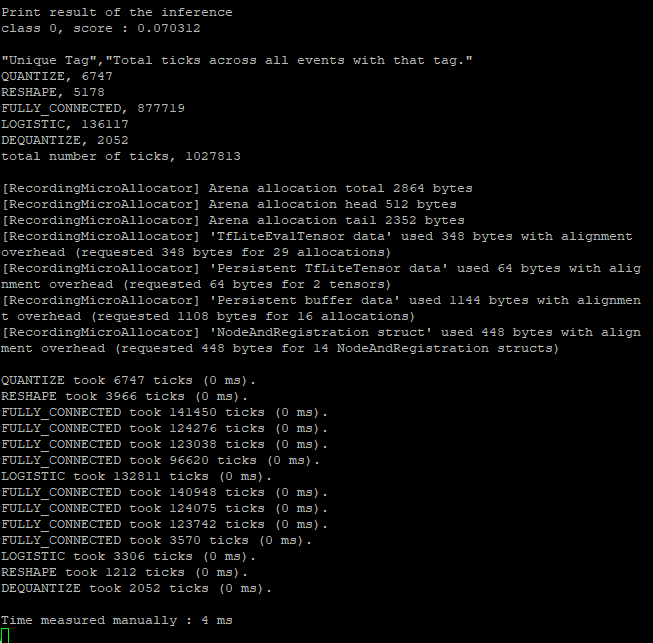
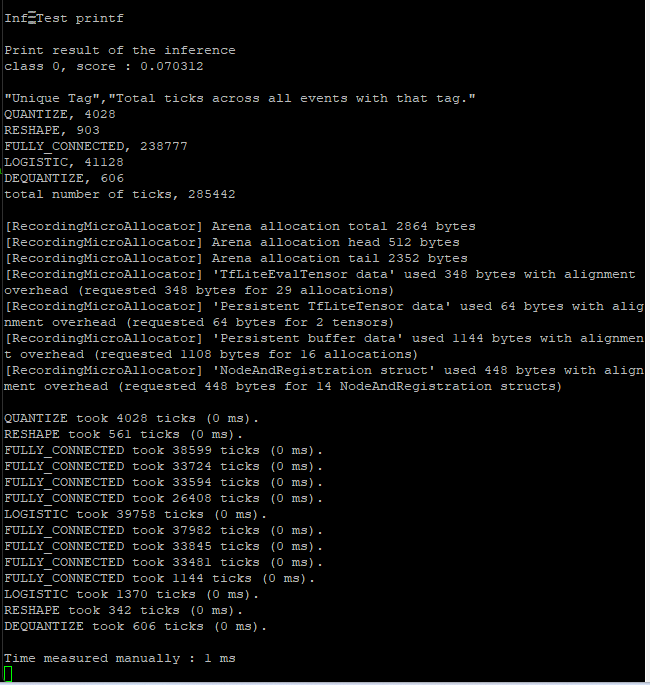
update readme. inferente time

Changed region(s): [[0.0, 0.0, 1.0, 1.0]]

diff --git a/README.md b/README.md
@@ -192,45 +192,48 @@ Follow the procedure below to test the model.
 6. The configuration perspective open it. Go to the Clock configuration tab and set the clock to the max (100MHz)
 
     ![Alt text](docs/images/clock.png)
-7. Save and generate the new C code.
-8. Right click on the project and create a new folder named **tensorflow_lite**.
+
+7. Activate CPU cache (ICache, DCache), if available.
+ 
+8. Save and generate the new C code.
+9.  Right click on the project and create a new folder named **tensorflow_lite**.
 
     ![Alt text](docs/images/folder.png)
-9. Copy the content of the folder `/tmp/tflm-tree`, generated on the section [2 Generate the TFLiteMicro library for the embedded system](##-2-Generate-the-TFLiteMicro-library-for-the-embedded-system).
+10. Copy the content of the folder `/tmp/tflm-tree`, generated on the section [2 Generate the TFLiteMicro library for the embedded system](##-2-Generate-the-TFLiteMicro-library-for-the-embedded-system).
 
     ```bash
     cp -r /tmp/tflm-tree/* P_DeployTSAD/tensorflow_lite
     ```
-10. Include Headers and source in build process. Go to project > Properties. Then, go to C/C++ General> Paths and Symbols > Includes tab > GNU C. Click Add. In the pop-up, click workspace. Select the tensorflow_lite directoy in your project. CHeck Add to all configurations and Add to all languages. Repeat the last two step to iclude directories show in the figure below.
+11. Include Headers and source in build process. Go to project > Properties. Then, go to C/C++ General> Paths and Symbols > Includes tab > GNU C. Click Add. In the pop-up, click workspace. Select the tensorflow_lite directoy in your project. CHeck Add to all configurations and Add to all languages. Repeat the last two step to iclude directories show in the figure below.
 
     ![Alt text](docs/images/include.png)
-11. Include the tensorflow_lite directory in the Source Location
+12. Include the tensorflow_lite directory in the Source Location
 
     ![Alt text](docs/images/source.png)
-12. In Settings > MCU Settings, check the option **Use float with printf from newlib-nano**. It's needed to print float values.
+13. In Settings > MCU Settings, check the option **Use float with printf from newlib-nano**. It's needed to print float values.
 
     ![Alt text](<docs/images/MCU settings.png>)
-13. Add the compiler option `CMSIS_NN`, `ARMCM4`, `CMSIS_DEVICE_ARM_CORTEX_M_XX_HEADER_FILE`, `CPU_M4`, `TF_LITE_DISABLE_X86_NEON`, `TF_LITE_MCU_DEBUG_LOG`, `TF_LITE_STATIC_MEMORY` and `USE_HAL_DRIVER`. Check **Add to all configurations** and **Add to all languages**.
+14. Add the compiler option `CMSIS_NN`, `ARMCM4`, `CMSIS_DEVICE_ARM_CORTEX_M_XX_HEADER_FILE`, `CPU_M4`, `TF_LITE_DISABLE_X86_NEON`, `TF_LITE_MCU_DEBUG_LOG`, `TF_LITE_STATIC_MEMORY` and `USE_HAL_DRIVER`. Check **Add to all configurations** and **Add to all languages**.
 
     ![Alt text](docs/images/CMSIS.png)
 
-14. Add the compiler flag `MD` in **MCU GCC Assembler**, **MCU GCC Compiler** and **MCU G++ Compiler**
+15. Add the compiler flag `MD` in **MCU GCC Assembler**, **MCU GCC Compiler** and **MCU G++ Compiler**
 
     ![Alt text](docs/images/mdFlag.png)
 
-15. Modify the function `ticks_per_second()` of the file `P_DeployTSAD_h7\tensorflow_lite\tensorflow\lite\micro\cortex_m_generic\micro_time.cc`. It depends of the clock speed.
+16. Modify the function `ticks_per_second()` of the file `P_DeployTSAD_h7\tensorflow_lite\tensorflow\lite\micro\cortex_m_generic\micro_time.cc`. It depends of the clock speed.
     ```c
     uint32_t ticks_per_second() { return SystemCoreClock; }
     ```
-16. Rename main.c to main.cpp
-17. Build the project
-18. To be faster, add the compiler flag `-O3` in **MCU GCC Compiler** and **MCU G++ Compiler**. :
+17. Rename main.c to main.cpp
+18. Build the project
+19. To be faster, add the compiler flag `-O3` in **MCU GCC Compiler** and **MCU G++ Compiler**. :
 
     ![Alt text](docs/images/optimize.png)
 
-19. Implement your application and add model + data (gan_0_quant.cpp, gan_0_quant.h, C_1_test.h) in the project.
+20. Implement your application and add model + data (gan_0_quant.cpp, gan_0_quant.h, C_1_test.h) in the project.
 
-20. Follow the same procedure for the Nucleo-H7a3ZI-Q.
+21. Follow the same procedure for the Nucleo-H7a3ZI-Q.
 
 ## 5 Create a project with STMCubeAI
 
@@ -311,7 +314,7 @@ Results of quantize model on target vs on the host :
 This project run on a Nucleo-H7A3ZI-Q and embedds a cortex-M7. There is a 2MB Flash and a 1.4MB RAM.
 
 To measure the STM-HAL memory footprint, it's necessary to replace the define `#define RUN_INFERENCE` by `#define BASELINE_MEMORY_FOOTPRINT` in the main file.
-Then, the memory footprint of TFlite ca be measured with `#define RUN_INFERENCE` or `PROFILE_MEMORY_AND_LATENCY`.
+Then, the memory footprint of TFLite can be measured with `#define RUN_INFERENCE` or `PROFILE_MEMORY_AND_LATENCY`.
 
 These measures are did with the `gan_0_quant` model.
 
@@ -330,7 +333,8 @@ The validation dataset take 100 * 100 * 4 = 40 000 bytes => 39 kB in FLASH (.rod
 ![Alt text](docs/images/image-10.png)
 
 
-Inference time : 4ms
+Inference time : 1-2 ms \
+In the image below, the inference has taken 1.02 ms.
 
 ![Alt text](docs/images/image-11.png)
 
@@ -362,7 +366,7 @@ The validation dataset take 100 * 100 * 4 = 40 000 bytes => 39 kB in FLASH (.rod
 ![Alt text](docs/images/image-14.png)
 
 
-Inference time : 1ms
+Inference time : 1-2 ms
 
 Results of quantize model on target vs on the host :
 
@@ -391,7 +395,7 @@ The validation dataset take 100 * 100 * 4 = 40 000 bytes => 39 kB in FLASH (.rod
 ![Alt text](docs/images/image-16.png)
 
 
-Inference time : 1ms
+Inference time : 1-2 ms
 
 Results of quantize model on target vs on the host :
 
